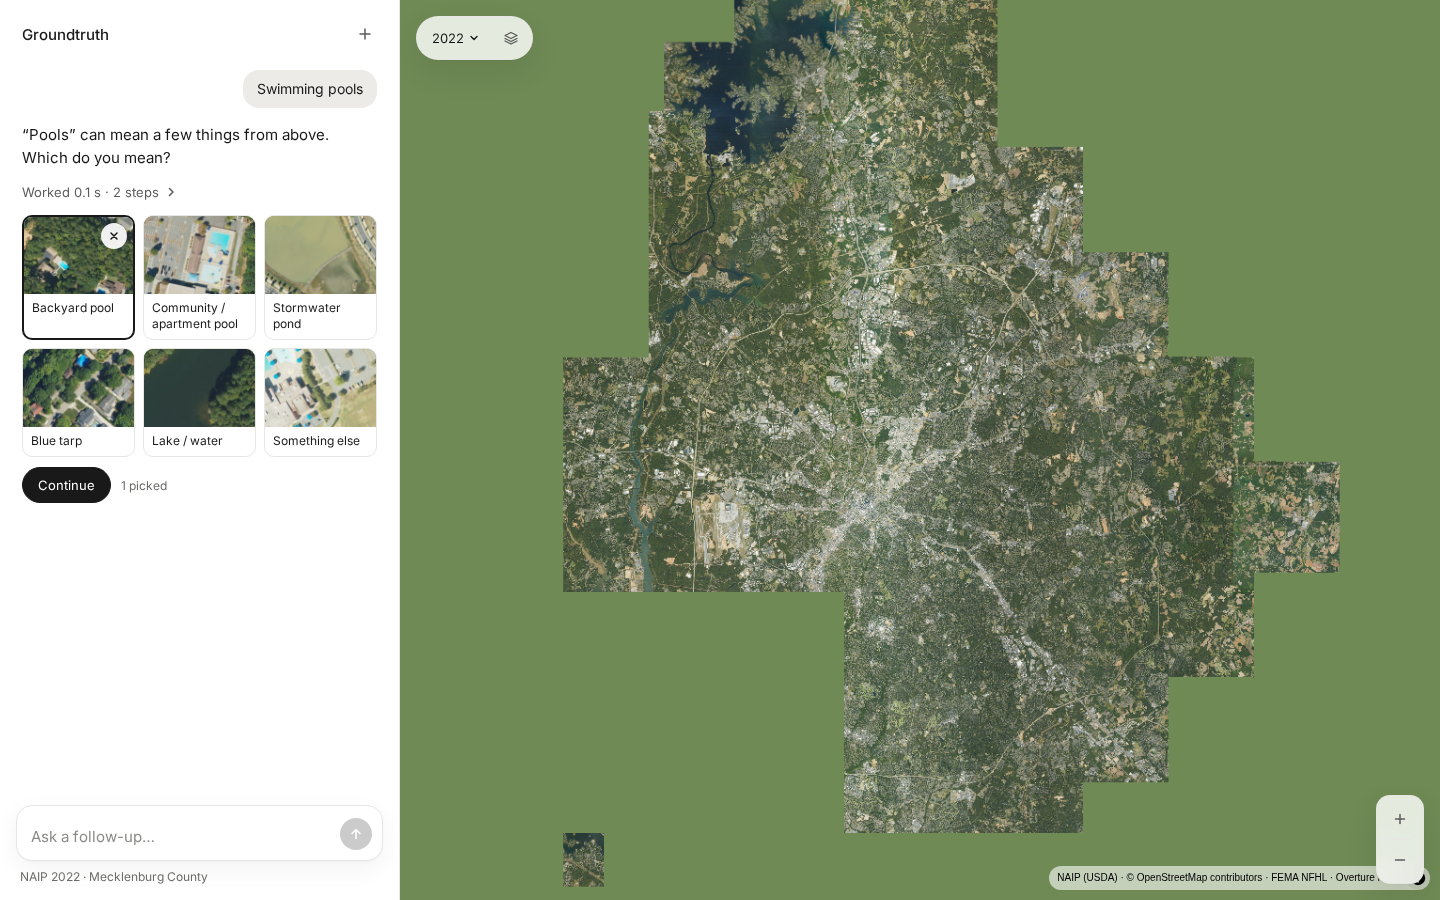
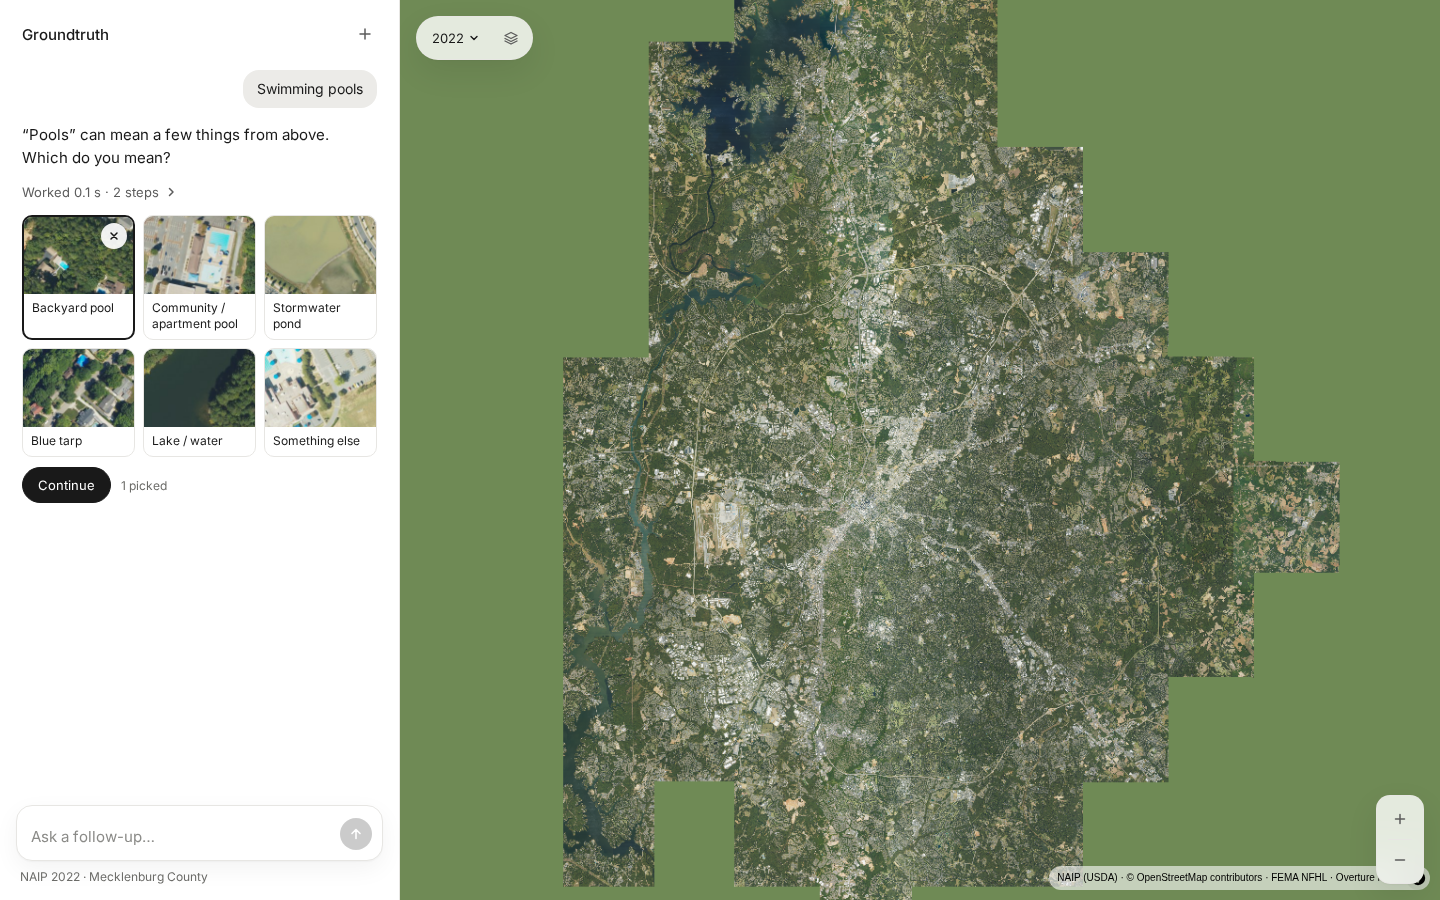
Checkpoint A: compare screenshots + DIFF.md, camera to the densest cluster, imagery after the first question, local tile cache + prerender, landing crop, STATUS

Changed region(s): [[0.375, 0.6533, 0.75, 1.0], [0.4375, 0.0311, 0.4688, 0.1244]]

diff --git a/web/app-v2/src/App.tsx b/web/app-v2/src/App.tsx
@@ -13,7 +13,7 @@ type Msg =
   | { id: string; role: "assistant"; text: string; steps: StepLine[]; secs: string; card: Card | null; pills: string[];
       pick?: Tile[]; query?: string; showDetails?: boolean };
 
-const LANDING_BG = cropUrl([-80.9045, 35.4535, -80.8745, 35.4735], 2022, 640);
+const LANDING_BG = cropUrl([-80.8830, 35.4955, -80.8710, 35.5030], 2022, 640);  // Lake Norman shore, real NAIP
 let uid = 0;
 const nextId = (p: string) => `${p}${++uid}`;
 
@@ -69,7 +69,6 @@ export default function App() {
     const docks = all.filter((f) => f.properties?.kind === "dock");
     const links = all.filter((f) => f.properties?.kind === "dock_link");
     const heat = r.actions.some((a) => a.action === "heatmap");
-    const fly = r.actions.find((a) => a.action === "fly_to" && a.bbox);
     if (r.status === "declined" || r.ask === "pick") return;
     if (heat) {
       shown.current = null;
@@ -86,13 +85,12 @@ export default function App() {
       // a filter: keep the previous set on screen, fade the non-matches to .16 and pulse the matches twice
       m.setResults({ features: prev.features, docks, links, look: "rings", matches: ids, pulse: true });
       shown.current = { ...prev, docks, links };
-      if (!fly) m.flyToBbox(bboxOf(feats), 56, 16.2);
+      m.flyToCenter(densest(feats), 14.6);
     } else {
       m.setResults({ features: feats, docks, links, look: "rings", pulse: false });
       shown.current = { ids, features: feats, docks, links };
-      if (!fly) m.flyToBbox(bboxOf(feats), 56, 16.2);
+      if (feats.length > 12) m.flyToCenter(densest(feats), 14.3); else m.flyToBbox(bboxOf(feats), 80, 16.2);
     }
-    if (fly?.bbox) m.flyToBbox(fly.bbox, 40, 15);
     setLegend({ on: true, docks: docks.length > 0, label: legendLabel(r) });
   }, []);
 
@@ -102,7 +100,7 @@ export default function App() {
     try {
       const r = await agentRun(text, c);
       lastResp.current = r;
-      const { lines, secs } = stepLines(r);
+      const { lines, secs } = stepLines(r, performance.now() - t0.current);
       let pick: Tile[] | undefined;
       if (r.ask === "pick") {
         const pc = r.steps.find((s) => s.tool === "pick_candidates")?.envelope;
@@ -429,6 +427,19 @@ function legendLabel(r: AgentResponse): string {
   const p = r.plan ?? {};
   if (p.target_kind === "derived" || p.concept === "swimming_pool") return "Pools";
   return String(p.concept_query ?? p.target ?? "Results").replace(/_/g, " ").replace(/^\w/, (c) => c.toUpperCase());
+}
+
+/** The result with the most other results within ~700 m (ties → the first): where the camera goes. */
+function densest(fs: Feature[]): [number, number] {
+  const pts = fs.map((f) => centroid(focusGeom(f)));
+  let best = pts[0], bn = -1;
+  for (const p of pts) {
+    const k = Math.cos((p[1] * Math.PI) / 180);
+    let n = 0;
+    for (const q of pts) if (((q[0] - p[0]) * k) ** 2 + (q[1] - p[1]) ** 2 < 0.0063 ** 2) n++;
+    if (n > bn) { bn = n; best = p; }
+  }
+  return best;
 }
 
 function bboxOf(fs: Feature[]): number[] {

diff --git a/web/app-v2/src/turns.ts b/web/app-v2/src/turns.ts
@@ -68,17 +68,18 @@ const LABEL: Record<string, (e: Envelope, r: AgentResponse) => [string, string]>
   canopy: () => ["Read tree heights", ""],
 };
 
-export function stepLines(r: AgentResponse): { lines: StepLine[]; secs: string } {
+/** Steps of this answer. A cached answer shows the time it took now (wallMs), its steps without the original timings. */
+export function stepLines(r: AgentResponse, wallMs = 0): { lines: StepLine[]; secs: string } {
   let total = 0;
   const lines: StepLine[] = r.steps.map((s) => {
     const ms = (s.envelope.steps ?? []).reduce((a, x) => a + (x.ms ?? 0), 0);
     total += ms;
     const [label, detail] = (LABEL[s.tool] ?? (() => [s.tool.replace(/_/g, " "), ""]))(s.envelope, r);
-    return { label, detail: scrub(detail), ms: ms >= 1 ? `${Math.round(ms)} ms` : "" };
+    return { label, detail: scrub(detail), ms: ms >= 1 && !r.cached ? `${Math.round(ms)} ms` : "" };
   });
   const brain = r.brain?.startsWith("local") ? "Planned by the local model" : "Planned by built-in rules";
   lines.push({ label: brain, detail: r.cached ? "from cache" : "", ms: "" });
-  return { lines, secs: Math.max(0.1, total / 1000).toFixed(1) };
+  return { lines, secs: Math.max(0.1, (r.cached ? wallMs : total) / 1000).toFixed(1) };
 }
 
 const TITLES: Record<string, string> = { swimming_pool: "pools", parking_lot: "parking lots", solar_installation: "solar arrays",

diff --git a/web/app-v2/src/map.ts b/web/app-v2/src/map.ts
@@ -227,6 +227,11 @@ export class GtMap {
     this.map.fitBounds([[b[0], b[1]], [b[2], b[3]]], { padding, maxZoom, duration: reduce ? 0 : 1600, easing: CAMERA_EASE, essential: true });
   }
 
+  flyToCenter(c: [number, number], zoom: number) {
+    const reduce = matchMedia("(prefers-reduced-motion: reduce)").matches;
+    this.map.flyTo({ center: c, zoom, duration: reduce ? 0 : 1600, easing: CAMERA_EASE, essential: true });
+  }
+
   flyToFeature(f: Feature, zoom = 18.2) {
     const c = centroid(focusGeom(f));
     const reduce = matchMedia("(prefers-reduced-motion: reduce)").matches;

diff --git a/web/app-v2/src/app.css b/web/app-v2/src/app.css
@@ -52,3 +52,4 @@ button:focus-visible, textarea:focus-visible, input:focus-visible { outline: 2px
   .gt-zoom { display: none !important; }
 }
 @media (prefers-reduced-motion: reduce) { * { transition: none !important; animation: none !important; } }
+.gt-ta:focus-visible { outline: none; }  /* the composer card is the focus target */

diff --git a/scripts/mockup_shots.py b/scripts/mockup_shots.py
@@ -1,0 +1,59 @@
+"""Screenshots of the approved mockup (docs/design/target/mockup.html) at the same states demo_check_v2 captures from
+the build: landing, transition, step1–4, sheet, pick → docs/media/v2/compare/<state>_mockup_<w>x<h>.png.
+
+  ~/.venvs/gt-browser/bin/python scripts/mockup_shots.py [--size 1440x900]
+"""
+import argparse
+import re
+from pathlib import Path
+
+from playwright.sync_api import sync_playwright
+
+ROOT = Path(__file__).resolve().parents[1]
+ap = argparse.ArgumentParser()
+ap.add_argument("--size", default="1440x900")
+a = ap.parse_args()
+w, h = (int(v) for v in a.size.split("x"))
+out = ROOT / "docs/media/v2/compare"
+out.mkdir(parents=True, exist_ok=True)
+
+
+def shot(page, state):
+    page.screenshot(path=str(out / f"{state}_mockup_{w}x{h}.png"))
+
+
+def pill(page, label):
+    page.locator("button", has_text=re.compile(rf"^\s*{re.escape(label)}\s*$")).last.click()
+
+
+with sync_playwright() as p:
+    br = p.chromium.launch()
+    page = br.new_page(viewport={"width": w, "height": h})
+    page.goto((ROOT / "docs/design/target/mockup.html").as_uri(), wait_until="load")
+    page.wait_for_selector("text=What do you want to find?", timeout=30000)
+    page.wait_for_timeout(1200)
+    shot(page, "landing")
+    pill(page, "Houses with pools")
+    page.wait_for_timeout(300)
+    shot(page, "transition")
+    page.wait_for_timeout(2600)
+    shot(page, "step1")
+    for i, lab in enumerate(["in Lake Norman", "with lake and dock access", "which got docks since 2020"], start=2):
+        pill(page, lab)
+        page.wait_for_timeout(3000)
+        shot(page, f"step{i}")
+    page.get_by_role("button", name="Open this result").nth(4).click()  # the step-3 card's first thumbnail
+    page.wait_for_timeout(1800)
+    page.locator("input[type=range]").fill("20")
+    page.wait_for_timeout(300)
+    shot(page, "sheet")
+    page.keyboard.press("Escape")
+    page.get_by_role("button", name="New search").click()
+    page.wait_for_timeout(900)
+    pill(page, "Swimming pools")
+    page.wait_for_timeout(2400)
+    page.locator("button[aria-pressed]").first.click()
+    page.wait_for_timeout(300)
+    shot(page, "pick")
+    br.close()
+print("ok", out)

diff --git a/docs/STATUS_FOR_MONISH.md b/docs/STATUS_FOR_MONISH.md
@@ -1,5 +1,51 @@
 # Status for Monish
 
+## Try it now (branch `redesign/conversational`, API on the PC)
+- **http://localhost:8000/** is the new conversational app. Click **Houses with pools**, then the pills **in Lake Norman** →
+  **with lake and dock access** → **which got docks since 2020**. Click a thumbnail to open the detail sheet. Drag the
+  2020/2022 slider. Try **Not this**, then ⋯ → **Export CSV**.
+- **New search (+)** → **Swimming pools**. Pick a tile, **Continue**, then **in Lake Norman**.
+- Type **who owns these houses**: it is declined in the chat.
+- The old UI is at **http://localhost:8000/classic**.
+- Check (WSL, worktree root): `~/.venvs/gt-browser/bin/python scripts/demo_check_v2.py`. Compare screenshots: `bash scripts/compare_shots.sh`.
+
+## CHECKPOINT A (MEGA BUILD Phase 1): waiting for your look at the compare screenshots
+- PHASE 1: done (Phase 6 not started; it waits for your approval)
+- **Try it:** see above.
+- **Numbers:**
+  - demo_check v2: 31/31 at 1440×900 and at 1920×1080.
+  - Chain, warm, per message (time until the reply is on screen):
+
+    | message | time |
+    |---|---|
+    | houses with pools | 281 ms |
+    | in Lake Norman | 186 ms |
+    | with lake and dock access | 71 ms |
+    | docks since 2020 | 15 ms |
+    | decline | 150 ms |
+    | picked pools in Lake Norman | 404 ms |
+
+  - Lake Norman (real, derived v1): 946 houses with a pool → 63 lakefront with their own dock → none of their 69 docks is new since 2020.
+  - "Not this" gives 63 → 62, and the CSV has 62 rows.
+- **Files:**
+  - `docs/media/v2/compare/<state>_{mockup,build}_<size>.png`. States: landing, transition, step1–4, sheet, pick.
+  - The differences are listed in `docs/media/v2/compare/DIFF.md`: 6 fixed, 10 remaining. The remaining ones are real imagery or real numbers, or the data does not support them yet.
+  - `data/out/dock_change_sheet.jpg` is the 2020/2022 dock contact sheet.
+- **Broken / still wrong:**
+  - Step 4 has nothing new to show, because no dock is new since 2020. The mockup's "31 docks added" is not true for these houses.
+  - Eye-check precision for the v1 derived concepts is not re-measured yet (Phase 2.3).
+  - Windows free RAM is 2.6 GB with the API warm (rule: ≥ 4 GB). This is Phase 4.3, next after Phase 2.
+  - The 90 s recording is not made yet.
+- **Decisions I made:**
+  - "Docks new since 2020" is a build-time imagery check: the dock footprint is deck in 2022 and water in 2020. Thresholds are in `conf/derived.json`. I eye-checked the 24 most change-like docks: all existed in 2020, so the answer is "none".
+  - The LLM does not rewrite the hero-chain replies or the questions back to the user, because it garbled them ("Look for areas…"). Other replies are still rewritten.
+  - "Not this" re-runs the request behind that card without the house, so the count is a real recount, not a client-side subtraction.
+  - Imagery loads only after the first question. Local tiles up to z15 are disk-cached (`data/cache/tiles/local/v1`), and the demo views are pre-rendered (`scripts/prerender_tiles.py`).
+  - Step 2+ flies to the densest cluster at z14.3, so the rings show as in the design. Zoom out to see all the dots.
+- **Needs me:** look at the compare screenshots (approve Phase 1, or list what to change) before Phase 6.
+- **Free RAM:** PC Windows 2.6 GB, WSL 14 GB available; laptop 41 GB available; VRAM 4.7 / 8.2 GB.
+
+
 ## Competition-ready checkpoint (2026-11-08): see docs/HANDOFF.md for the full picture
 - Feature work is STOPPED at `demo-final`. demo_check passes cold, warm ×2 and offline; the typed chain runs < 1 s per
   step warm; declines 49/49; Windows free with the API warm 4.9 GB; manifest + rollback tested.

diff --git a/docs/media/v2/compare/DIFF.md b/docs/media/v2/compare/DIFF.md
@@ -1,0 +1,30 @@
+# Mockup vs build: visible differences (Checkpoint A)
+
+Screenshots: `<state>_mockup_<size>.png` vs `<state>_build_<size>.png` at 1440×900 and 1920×1080.
+States: landing, transition, step1–step4 (the Lake Norman chain), sheet (detail sheet, swipe at 20 %), pick (pick grid).
+The mockup side is `scripts/mockup_shots.py`; the build side is `scripts/demo_check_v2.py --shots` (31/31 checks pass
+at both sizes). Run both with `scripts/compare_shots.sh`.
+
+## Fixed during the compare
+| # | State | Difference | Fix |
+|---|---|---|---|
+| 1 | step 2–4 | Pool dots/rings missing (only docks drawn) | MapLibre needs zoom interpolation outermost; rewrote the dot/ring opacity expressions |
+| 2 | step 2 | Build fitted all 946 houses (dots only); mockup flies close and shows rings | Camera flies to the densest cluster of the matches at z14.3 (z14.6 on a filter), so rings show |
+| 3 | step 1 | "Worked 78.7 s" on an answer served from cache (the original cold time) | Cached answers show the time they took now |
+| 4 | step 1 | First answer took 27 s in the browser (API: 35 ms): the hidden landing map's tiles held the browser's 6 connections | Imagery starts only after the first question is sent; local tiles up to z15 disk-cached; county z10–12 + Lake Norman z13–15 pre-rendered |
+| 5 | landing | 2 px focus outline on the textarea | The composer card is the focus target; no outline on the bare textarea |
+| 6 | landing | Background crop was mostly roofs; mockup shows houses + shoreline | Real NAIP crop of a Lake Norman shore (homes, docks, lake on the right) |
+
+## Remaining differences (intended or data-driven)
+| # | State | Difference | Why |
+|---|---|---|---|
+| 1 | all map states | Real NAIP imagery instead of the illustrated map; outside the county there is no imagery (flat green) | Intended: real data |
+| 2 | step 1 | Mockup: glowing dots on houses near the camera. Build: county view, glowing dots on the 41 top residential-pool matches | Real answer: a county overview is top matches, not a count, so no number is shown |
+| 3 | step 2–4 | Numbers: mockup 1,188 / 214 / 31. Build 946 / 63 / none | Real numbers from the envelopes. Step 4: none of the 63 houses' 69 docks is new since 2020 (eye-checked contact sheet, `data/out/dock_change_sheet.jpg`); the reply says so |
+| 4 | step 4 | Mockup pulses the new docks; build keeps the step-3 picture | Nothing new to show (see 3) |
+| 5 | steps | "N steps" lines differ (e.g. 2 vs 4) | The real tools that ran |
+| 6 | step 3 | Docks are real dock outlines (irregular shapes), not straight bars | Real detector outlines |
+| 7 | pick | Tile labels "Community / apartment pool", "Lake / water" vs "Community pool", "Lake or pond"; real NAIP thumbnails | Labels come from the engine's meanings config; images are real |
+| 8 | sheet | Facts: no dock length; "next to the house" instead of "behind the house" | Dock length is not measured yet; "behind" can't be known from above |
+| 9 | sheet | Map behind the sheet is at z18 with the pool outlined in white (mockup: white ring at mid zoom) | Zoom-aware styling per MEGA BUILD 1.4 (outlines above z16) |
+| 10 | transition | Same timings/easings; the map behind shows real tiles loading | Real tiles |

diff --git a/docs/BUILD_LOG.md b/docs/BUILD_LOG.md
@@ -4,6 +4,7 @@ Times are local (America/New_York).
 
 | time | milestone |
 |---|---|
+| 2026-11-08 04:31 | Checkpoint A: web/app-v2 (approved UI) on real data; demo_check v2 31/31 at 1440x900 + 1920x1080; compare screenshots + DIFF.md *(free: WSL RAM 14,948 MB · VRAM used 4692 MiB, 8188 MiB · disk C: 61 GB)* |
 | 2026-11-08 01:10 | Competition-ready checkpoint: memory in code (API heap 5.7 → 2.9 GB; Windows free 3.2 → 4.9 GB with the API warm), refine keeps dense outlines (140/140), shadow rule A/B off, dense off in Uptown, typed demo chain < 1 s per step warm, healthy only after the chain is warm (~2 min), versioned data + DEMO_MANIFEST + rollback, tiles p95 1,172 → 88 ms (local), demo_check PASS cold / warm ×2 / offline, planner 35/35 plans + 49/49 declines, Lake Norman labels 41 → 46/51 with dense. *(free: WSL RAM 15,272 MB · VRAM used 4598 MiB, 8188 MiB · disk C: 72 GB)* |
 | 2026-11-08 00:18 | Pick semantics: unpicked senses are SOFT negatives (nudge the query only), explicit not-this marks are HARD (can veto). Lidar height rule in the object check (median nDSM ≤ 1.5 m): Ballantyne dense 561 → 442 objects at equal recall (roofs gone). Dense sim_min 0.35. Demo pick Ballantyne: OSM recall 12/28 → 19/28, backyard-only 6/16 → 11/16, 373 objects, dense additions ~38/50 right. Dense badge, boat-docks-on-Lake-Norman chip, memo keys by signature (cold pick 2,010 → 6 ms). demo_check PASS cold + warm; tag demo-stable-v4. *(free: WSL RAM 17,423 MB · VRAM used 4977 MiB, 8188 MiB · disk C: 78 GB)* |
 | 2026-11-08 00:11 | Laptop heavy jobs detached (PID file + log; .wslconfig idle timeouts off by Monish); airport lidar built on the laptop (508M points, 14.6 min) and pulled; dense built for all 8 places (block-wise, no chip index). API restart + demo_check PASS cold (pick 1,983 ms) and warm; Ballantyne find_all 308 with dense. Tag demo-stable-v3. *(free: WSL RAM 17,365 MB · VRAM used 4886 MiB, 8188 MiB · disk C: 78 GB)* |

diff --git a/docs/SOURCES.md b/docs/SOURCES.md
@@ -60,6 +60,8 @@ Every dataset and model Groundtruth uses. One-line summary per item for sign-off
 | torch 2.14.1+cu126 / torchvision (GPU env for the one-off precompute + approved query-time GPU) | BSD-3 |
 | @fontsource/inter, @fontsource/ibm-plex-mono (UI fonts, bundled locally) | SIL OFL 1.1 (fonts) / MIT (packaging) |
 | React 18.3.1, Vite 5.4.11, TypeScript 5.6.3, @vitejs/plugin-react | MIT / MIT / Apache-2.0 / MIT |
+| Playwright 1.64.1 (Python; demo_check v2, compare screenshots: dev tool only) | Apache-2.0 |
+| web/app-v2 (the conversational app): no new dependencies (same React, MapLibre GL 4.7.1, Vite, Inter as the classic UI) | — |
 
 ### Places config
 `engine/groundtruth/conf/places.json`: neighbourhood bounding boxes resolved once via OSM Nominatim (ODbL, © OpenStreetMap
